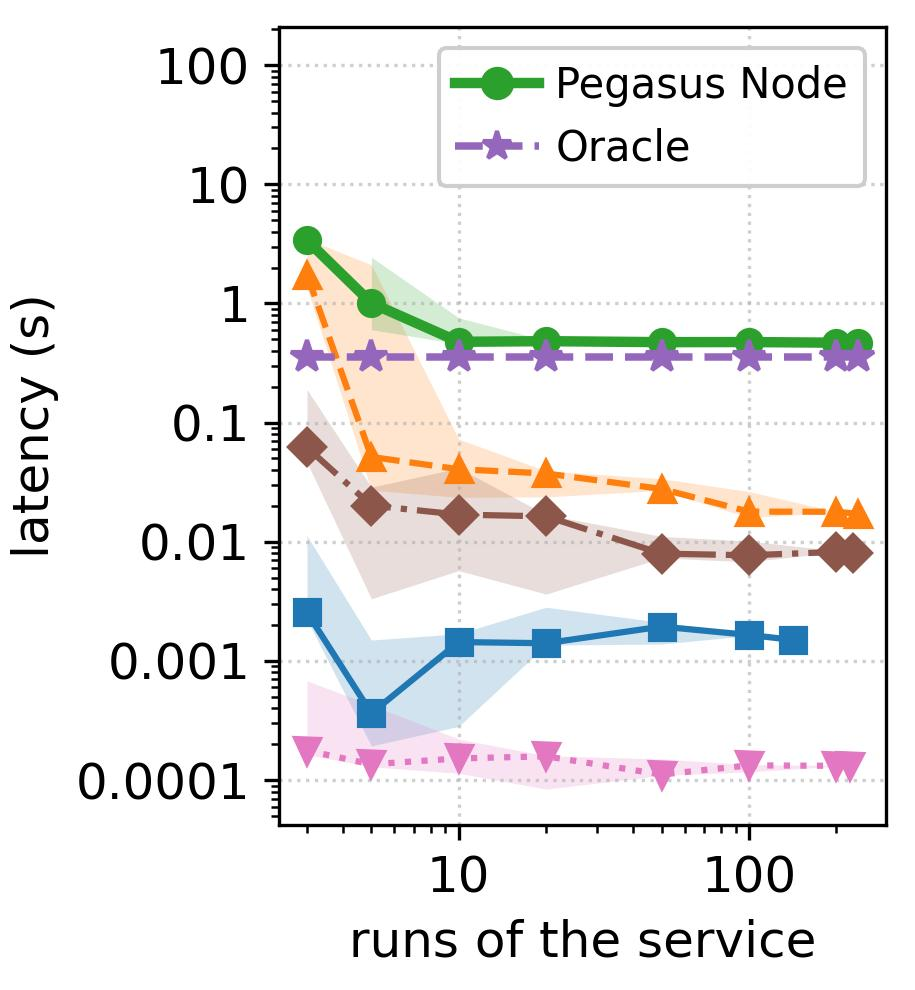
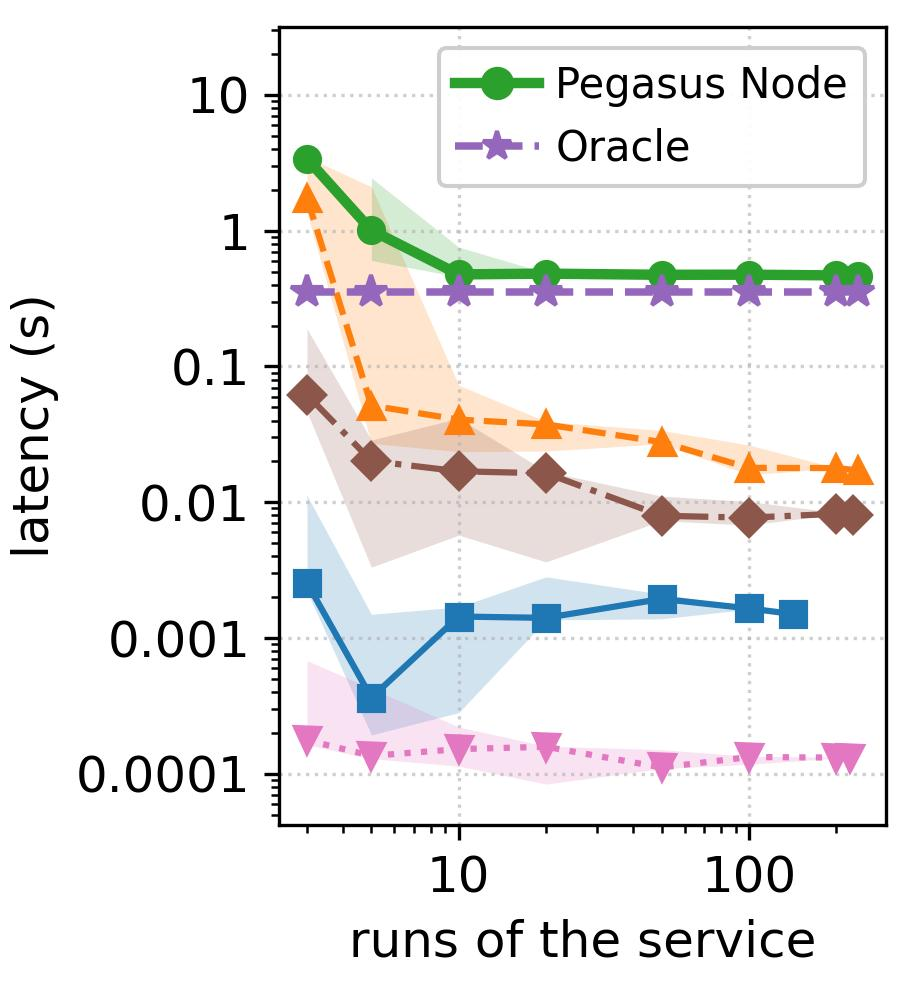
b2 uncertainty figure ends half a decade above the data

Changed region(s): [[0.0918, 0.1515, 0.9792, 0.8182], [0.1224, 0.6061, 0.306, 0.697], [0.1836, 0.0303, 0.306, 0.1212]]

diff --git a/notebooks/tsc/pegasus/evaluation.py b/notebooks/tsc/pegasus/evaluation.py
@@ -688,7 +688,8 @@ def uncertainty_figure(uncertainty: dict, chain_bound: dict, chain_pegasus: dict
                     linewidth=method_linewidth("Oracle"))
             segments.extend((x, value, value) for x in chain_runs)
         values = [value for segment in segments for value in segment[1:] if np.isfinite(value) and value > 0]
-        ax.set_ylim(min(values) / 2, max(values) * 60)   # room above the data for the legend
+        # half a decade above the power of ten over the data: the top tick is labeled, and the legend clears the data below it
+        ax.set_ylim(min(values) / 2, 10 ** (np.ceil(np.log10(max(values))) + 0.5))
         # the legend entries of the methods as in every figure (method_handle); short labels, so that the narrow legend leaves the
         # start of the lines free
         right_handles, right_labels = [method_handle(PROPOSED)], ["Pegasus Node"]
